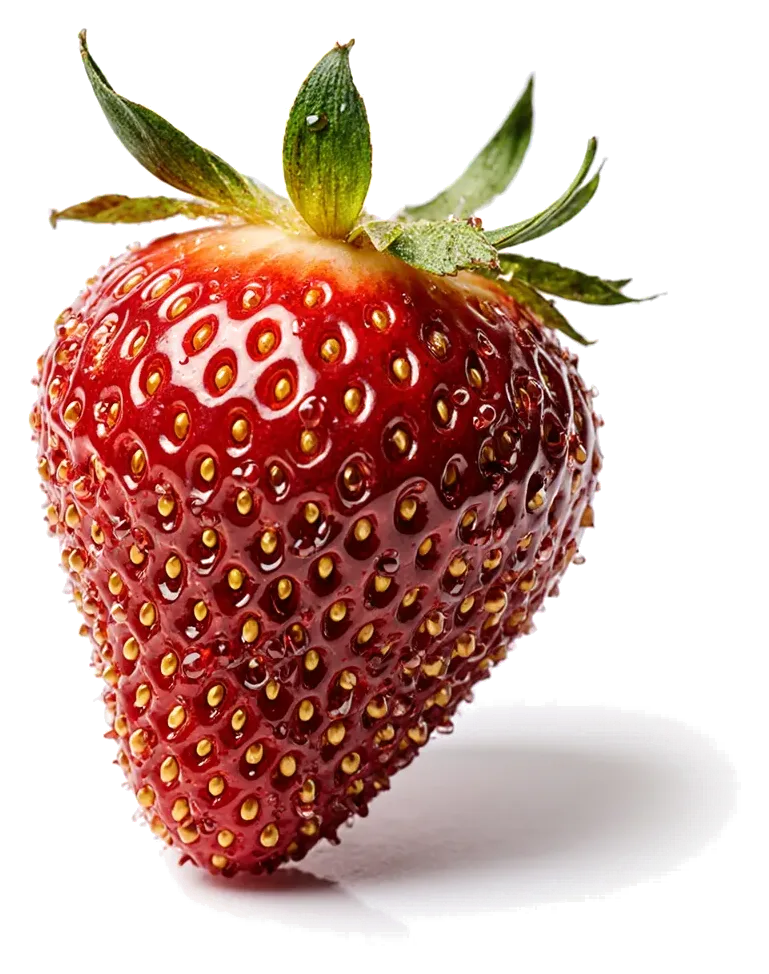
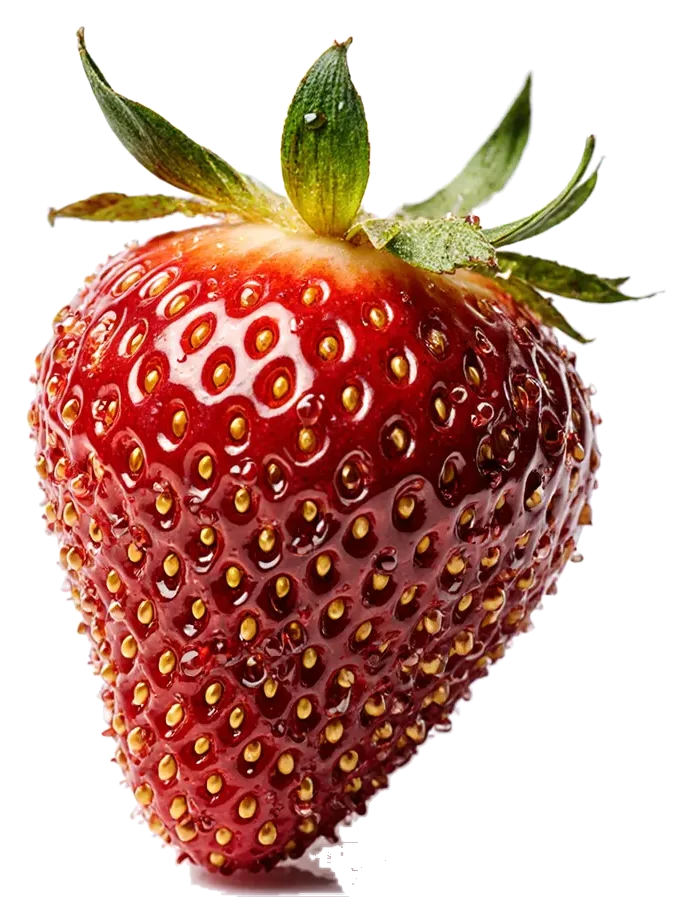
Add six more Hugging Face fruit photographs
strawberry-side, strawberry-closeup, blueberry-single/group/closeup and
raspberry-single from the FLUX.1-Krea-dev Space, with originals and seed
sidecars. Cutouts now also drop the smooth, neutral backdrop region connected
to the frame edge, removing floor shadows and grey sweeps the plain key kept.
README asset status updated.

Claude-Session: https://claude.ai/code/session_01Wt1i5qbj7mRjeaQLhGPKKz

diff --git a/assets/images/manifest.js b/assets/images/manifest.js
@@ -44,25 +44,28 @@ window.SF_MANIFEST = {
    "source": "standin"
   },
   "blueberry-closeup": {
-   "src": "assets/images/standin/fruits/blueberry-closeup",
-   "w": 1185,
-   "h": 870,
+   "src": "assets/images/generated/fruits/blueberry-closeup",
+   "w": 816,
+   "h": 854,
    "sm": true,
-   "source": "standin"
+   "source": "hf",
+   "avif": false
   },
   "blueberry-group": {
-   "src": "assets/images/standin/fruits/blueberry-group",
-   "w": 1069,
-   "h": 936,
+   "src": "assets/images/generated/fruits/blueberry-group",
+   "w": 911,
+   "h": 731,
    "sm": true,
-   "source": "standin"
+   "source": "hf",
+   "avif": false
   },
   "blueberry-single": {
-   "src": "assets/images/standin/fruits/blueberry-single",
-   "w": 948,
-   "h": 979,
-   "sm": true,
-   "source": "standin"
+   "src": "assets/images/generated/fruits/blueberry-single",
+   "w": 654,
+   "h": 723,
+   "sm": false,
+   "source": "hf",
+   "avif": false
   },
   "caramel-drizzle": {
    "src": "assets/images/standin/chocolate/caramel-drizzle",
@@ -409,11 +412,12 @@ window.SF_MANIFEST = {
    "source": "standin"
   },
   "raspberry-single": {
-   "src": "assets/images/standin/fruits/raspberry-single",
-   "w": 867,
-   "h": 747,
-   "sm": true,
-   "source": "standin"
+   "src": "assets/images/generated/fruits/raspberry-single",
+   "w": 751,
+   "h": 783,
+   "sm": false,
+   "source": "hf",
+   "avif": false
   },
   "shake-choco-overload": {
    "src": "assets/images/standin/shakes/shake-choco-overload",
@@ -458,11 +462,12 @@ window.SF_MANIFEST = {
    "source": "standin"
   },
   "strawberry-closeup": {
-   "src": "assets/images/standin/fruits/strawberry-closeup",
-   "w": 964,
-   "h": 1186,
-   "sm": true,
-   "source": "standin"
+   "src": "assets/images/generated/fruits/strawberry-closeup",
+   "w": 751,
+   "h": 1026,
+   "sm": false,
+   "source": "hf",
+   "avif": false
   },
   "strawberry-cut": {
    "src": "assets/images/standin/slices/strawberry-cut",
@@ -473,8 +478,8 @@ window.SF_MANIFEST = {
   },
   "strawberry-front": {
    "src": "assets/images/generated/fruits/strawberry-front",
-   "w": 769,
-   "h": 974,
+   "w": 692,
+   "h": 923,
    "sm": false,
    "source": "hf",
    "avif": false
@@ -487,11 +492,12 @@ window.SF_MANIFEST = {
    "source": "standin"
   },
   "strawberry-side": {
-   "src": "assets/images/standin/fruits/strawberry-side",
-   "w": 1002,
-   "h": 890,
-   "sm": true,
-   "source": "standin"
+   "src": "assets/images/generated/fruits/strawberry-side",
+   "w": 710,
+   "h": 827,
+   "sm": false,
+   "source": "hf",
+   "avif": false
   },
   "strawberry-slice": {
    "src": "assets/images/standin/slices/strawberry-slice",

diff --git a/README.md b/README.md
@@ -4,7 +4,9 @@ A cinematic, scroll-driven 3D website for **Shake Factory**: a premium food comm
 
 Static site: **HTML5 + CSS3 + vanilla JavaScript (ES modules)** with **GSAP + ScrollTrigger**, **Lenis** and **Three.js**. No backend, no database, no build step.
 
-> **Asset status:** this build ships locally rendered **stand-in** images under the exact file names the photographs will use. Hugging Face was not reachable from the environment this was built in. Run the pipeline below (one command with your token), or generate the photos by hand from [`PROMPTS.md`](PROMPTS.md), and the photographs replace every stand-in automatically. No code changes are needed.
+> **Asset status:** 8 of 75 assets are Hugging Face photographs (FLUX.1-Krea-dev): strawberry front/side/close-up, blueberry single/group/close-up, raspberry single and milk splash. The rest are still locally rendered **stand-ins** under the exact file names the photographs will use. Run the pipeline below (it skips everything already generated), or generate the photos by hand from [`PROMPTS.md`](PROMPTS.md), and the photographs replace every stand-in automatically. No code changes are needed.
+>
+> The first 8 were exported where no AVIF encoder was available, so their manifest entries carry `avif: false` and the site serves them as WebP. `npm run assets:process` (with `sharp`) re-exports them with AVIF and clears the flag.
 
 ---
 
